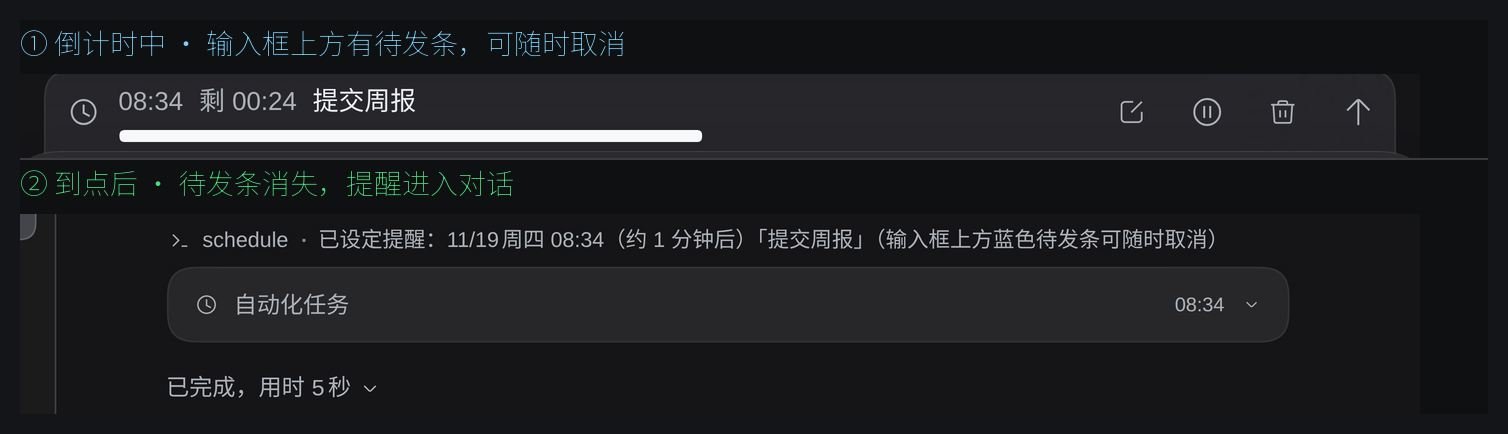
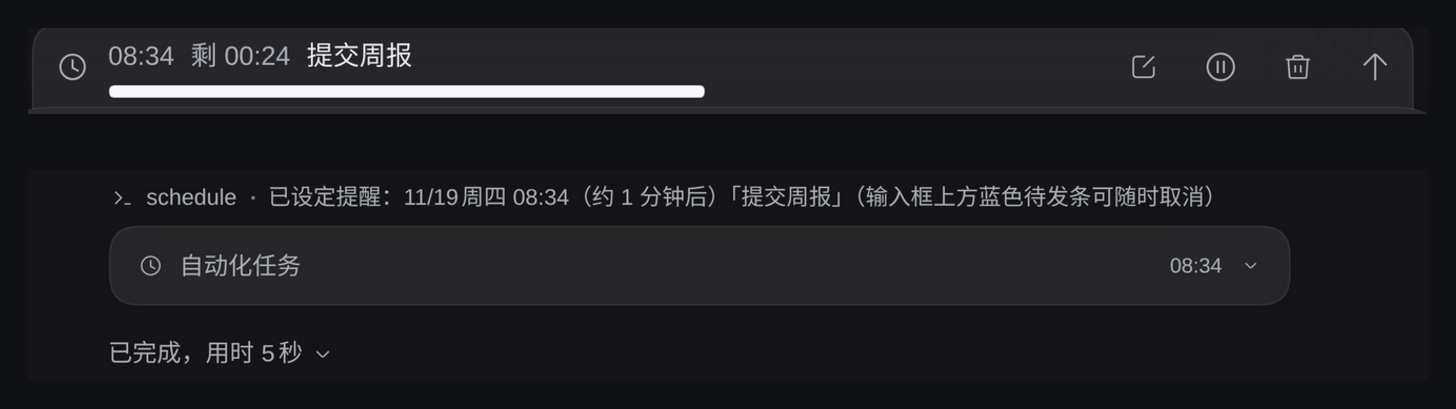
docs: 到期截图去掉烧入的标注文字
上一条把「① 倒计时中 / ② 到点后」直接用 ImageMagick 画进了图里。图片
里不该有 README 自己生成的文字：截图应当只是截图，说明归正文。

改为纯叠放：同一区域截两次，纵向拼起来，中间只留一条分隔与间距，不加
任何字符。顺序由「上有待发条、下有待发条消失」本身表达，正文那行写
「上：倒计时中；下：到点后」即可。

顺带删掉 screenshot-fired.en.png —— 中英共用同一张（原先是靠图内中英
标注区分才需要两张，现在文字在图外，一张通用）。

diff --git a/scripts/capture/README.md b/scripts/capture/README.md
@@ -8,8 +8,7 @@
 |---|---|---|
 | `docs/media/screenshot-panel.png` | 定时面板（快捷时段 / 自定义时间 / 已设定列表） | 元素截图（2x） |
 | `docs/media/screenshot-dock.png` | 待发送 dock + 输入框（倒计时中段，进度条可见） | 固定区域裁剪（2x） |
-| `docs/media/screenshot-fired.png` | 到点前后两态对照（中）：`①` 待发条+倒计时 / `②` 待发条消失、注入行进对话 | 同一区域截两次 + ImageMagick 拼标签 |
-| `docs/media/screenshot-fired.en.png` | 同上，英文标签（英文 README 用） | 同一组截图，换英文标签重拼 |
+| `docs/media/screenshot-fired.png` | 到点前后两态叠放（同一区域截两次：待发条+倒计时 / 待发条消失、注入行进对话） | 同一区域截两次后纵向拼接，不加任何标注文字 |
 | `docs/media/docs-scheduler-create.webp` | 输入 → 面板 → 加入 → dock | 7 帧分镜 + ffmpeg palette |
 | `docs/media/docs-scheduler-fired.webp` | 倒计时跳动 → 注入行 + toast → 定时提醒消息 | 1fps 连续采帧 + 变速合成 |
 
@@ -40,7 +39,7 @@ node capture-all.cjs --out /tmp/ss-out
 
 - **dock 行内四个按钮的语义**：编辑 ✎ / 暂停 ⏸ / 删除 🗑 / **插话发送 ↑**。清理任务只能点 `[aria-label="删除提醒"]`；点错「插话发送」会把提醒立刻 steer 进 agent 并唤醒模型（`aria-label`：`编辑提醒` / `暂停提醒` / `删除提醒` / `插话发送`）。暂停只对 `after` 且未到点的行开放，`at` / `every` 那行按钮置灰。
 - **contenteditable 输入框**不能用 `fill('')` 清空（受控组件会回填旧值导致文字翻倍），用 Ctrl/Cmd+A + Backspace 并校验 `innerText` 长度。
-- **到期检测**：注入行文案是「上下文注入 · 定时提醒 · HH:MM · 内容」；用户可见的那条消息**由模型自己措辞**（本次是「⏰ 周报提醒：…」，下次可能换说法），所以不要拿模型那句话当截图主体。`screenshot-fired.png` 因此改成**同一处区域的前后两态**：到点前只截待发条的倒计时，到点后截「`> schedule · 已设定提醒…` 注入行 + 自动化任务块」，把插件确实负责的状态变化摆在前面。
+- **到期检测**：注入行文案是「上下文注入 · 定时提醒 · HH:MM · 内容」；用户可见的那条消息**由模型自己措辞**（本次是「⏰ 周报提醒：…」，下次可能换说法），所以不要拿模型那句话当截图主体。`screenshot-fired.png` 因此改成**同一处区域的前后两态**：到点前只截待发条的倒计时，到点后截「`> schedule · 已设定提醒…` 注入行 + 自动化任务块」，把插件确实负责的状态变化摆在前面。**图里不要烧任何标注文字**——两态上下叠放本身就说明顺序，文字交给 README 正文，图片保持是截图本身。
 - **面板时间输入**默认带分段选中态（蓝色高亮），截图前点一下 `.ss-panel-title` 失焦。
 - **进度条**：dock 底部有倒计时进度条，任务刚创建时≈0（视觉上像残影），在倒计时中段（T-100s 左右）截 dock 最好看。
 - **共享 Playwright MCP 浏览器**别用——其它 DSH 会话可能同时在操控它（语言/页面会被切走）；本目录脚本每次自起独立 headless 实例。

diff --git a/README.en.md b/README.en.md
@@ -136,9 +136,9 @@ The sidebar hover card gains one status line ("3 scheduled reminder(s), next 15:
 
 <img src="docs/media/screenshot-dock.png" width="700" alt="Pending dock and input box"/>
 
-**A real due-time firing** — the moment it is due, the pending bar disappears and the reminder enters the conversation (it fires even with the page closed):
+**A real due-time firing** — top: counting down with the pending bar above the input box; bottom: once due, the bar is gone and the reminder has entered the conversation (it fires even with the page closed):
 
-<img src="docs/media/screenshot-fired.en.png" width="760" alt="Before due: pending bar and countdown above the input box. After due: the bar is gone and the reminder has entered the conversation"/>
+<img src="docs/media/screenshot-fired.png" width="760" alt="Before due: pending bar and countdown above the input box. After due: the bar is gone and the reminder has entered the conversation"/>
 
 **Animated demos**:
 
